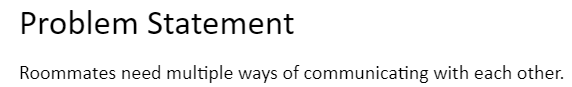
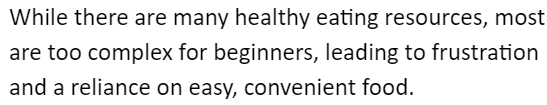
Updates files for new problem statement

Changed region(s): [[0.0, 0.069, 1.0, 0.6207], [0.0, 0.7356, 0.9945, 0.9655]]

diff --git a/index.html b/index.html
@@ -28,7 +28,7 @@
         <a href="files/statement.pdf">
           <img src="images/problem.png">
         </a>
-        <p>Roommates need multiple ways of communicating with each other.</p>
+        <p>While there are many healthy eating resources, most are too complex for beginners, leading to frustration and a reliance on easy, convenient food.</p>
       </section>
 
       <!--Affinity Diagram Assignment -->

diff --git a/styles.css b/styles.css
@@ -1,5 +1,5 @@
 body {
-    background-color: rgb(94, 84, 152);
+    background-color: rgb(116, 107, 167);
     font-family: Arial, Helvetica, sans-serif;
 }
 h1 {
@@ -17,6 +17,8 @@ h1 {
 }
 
 .projects {
+    display:flex;
+    flex-wrap:wrap;
     color:lightgreen;
 }
 
